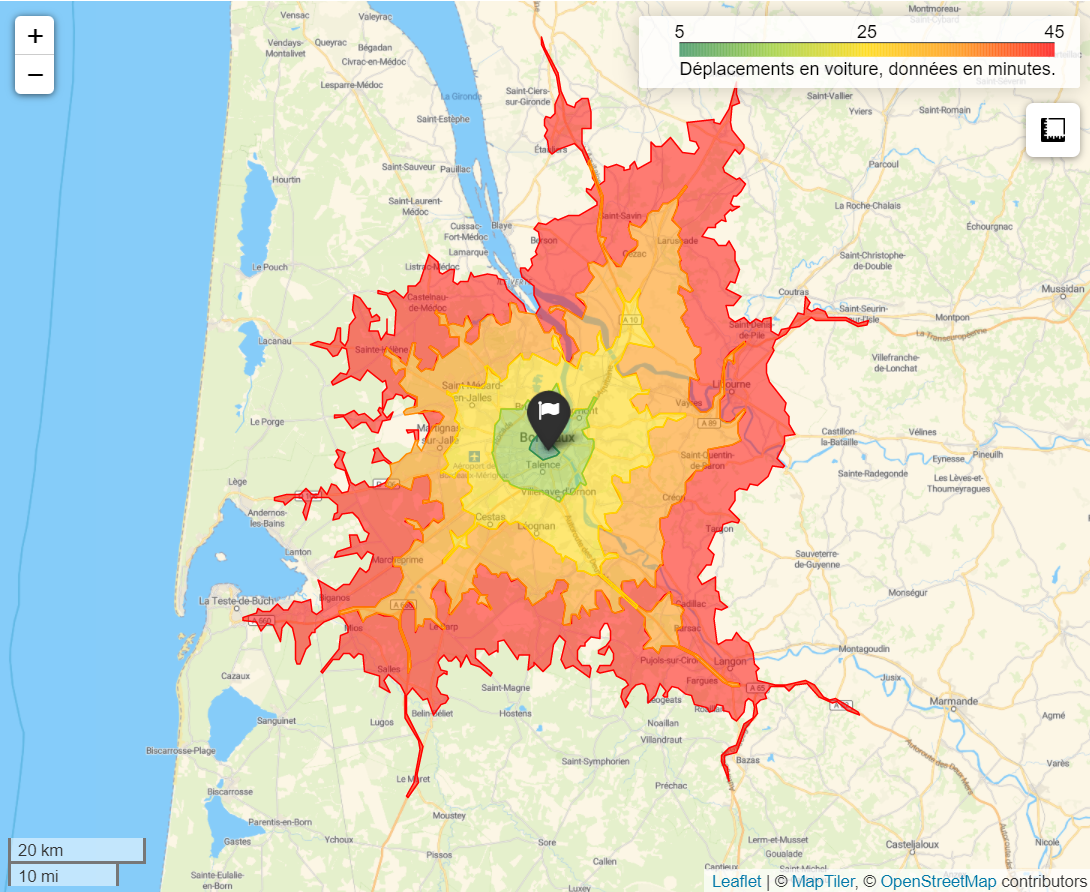
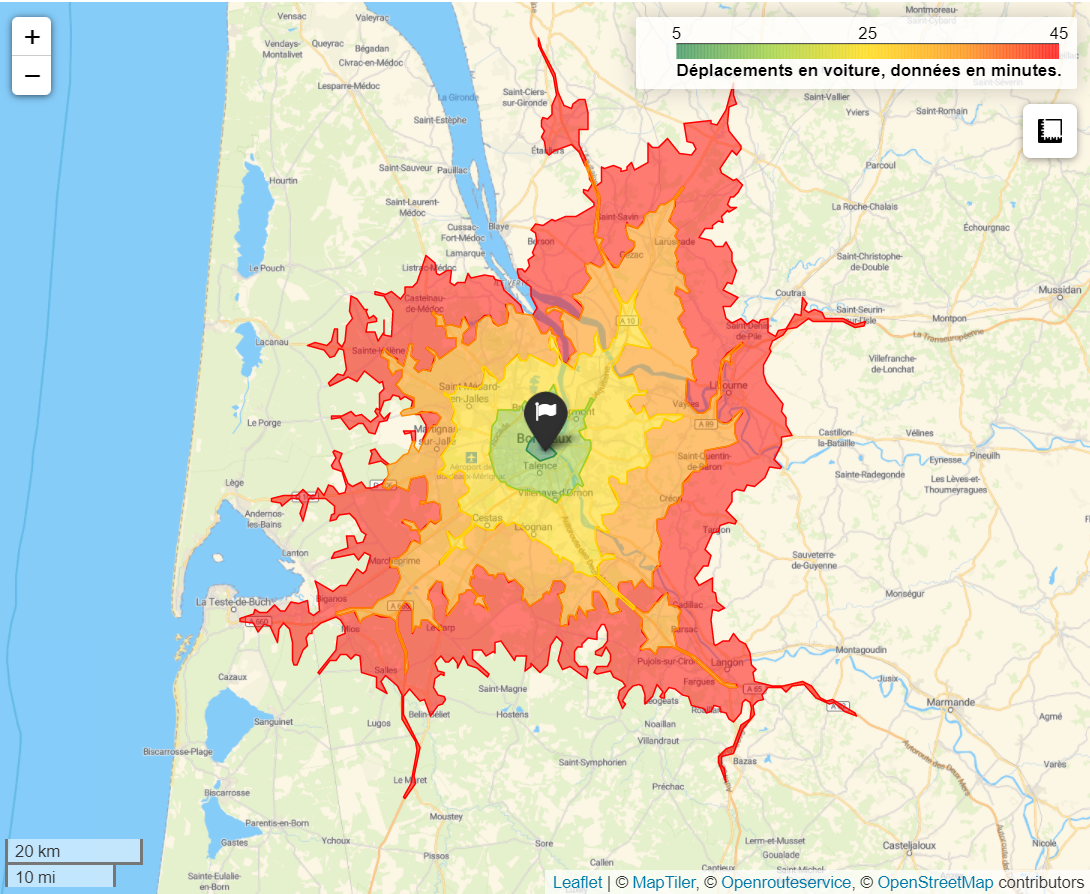
pyqgis

diff --git a/iso.html b/iso.html
@@ -10,11 +10,14 @@
     <style>html, body {width: 100%;height: 100%;margin: 0;padding: 0;}</style>
     <style>#map {position:absolute;top:0;bottom:0;right:0;left:0;}
     .legend{    padding: 2px 2px;
-    font: 12px/16px Arial, Helvetica, sans-serif;
+    font: 11.5px/16px Arial, Helvetica, sans-serif;
     background: white;
     background: rgba(255,255,255,0.8);
     box-shadow: 0 0 15px rgb(0 0 0 / 20%);
-    border-radius: 2px;width:42vh}</style>
+    border-radius: 2px;width:42vh}
+    .caption{
+        font-weight: bold;
+    }</style>
     <script src="https://cdn.jsdelivr.net/npm/leaflet@1.6.0/dist/leaflet.js"></script>
     <script src="https://code.jquery.com/jquery-1.12.4.min.js"></script>
     <script src="https://maxcdn.bootstrapcdn.com/bootstrap/3.2.0/js/bootstrap.min.js"></script>
@@ -320,7 +323,7 @@
 
     color_map_395ac610755a4a4ab578d707ce83edb1.x = d3.scale.linear()
               .domain([5.0, 45.0])
-              .range([0, 250]);
+              .range([0, 255]);
 
 
     color_map_395ac610755a4a4ab578d707ce83edb1.legend = L.control({position: 'topright'});

diff --git a/QGIS/index.html b/QGIS/index.html
@@ -266,9 +266,9 @@
                 opacity: .9,
                 color: '#05D100',
                 dashArray: '',
-                lineCap: 'square',
+                lineCap: 'round',
                 lineJoin: 'bevel',
-                weight: 1.0,
+                weight: .75,
                 fillOpacity: 0,
                 interactive: false,
             }
@@ -313,7 +313,7 @@
                 opacity: .9,
                 color: '#FFD435',
                 dashArray: '',
-                lineCap: 'square',
+                lineCap: 'round',
                 lineJoin: 'bevel',
                 weight: 2.0,
                 fillOpacity: 0,
@@ -363,7 +363,7 @@
                 opacity: .9,
                 color: '#FF4040',
                 dashArray: '',
-                lineCap: 'square',
+                lineCap: 'round',
                 lineJoin: 'bevel',
                 weight: 3.0,
                 fillOpacity: 0,

diff --git a/scripts.html b/scripts.html
@@ -105,13 +105,7 @@
 	
 </style>
 			<!-- Begin Featured Image --><h5></h3>
-				<iframe src="QGIS/index.html"scrolling="no"frameBorder="0" height="700vh" title="" style="position: relative;
-				left: 50%;
-				right: 50%;
-				margin-left: -50vw;
-				margin-right: -50vw;
-				max-width: 100vw;
-				width: 100vw;margin-bottom: 2%;"></iframe>
+				<iframe src="QGIS/index.html"scrolling="no"frameBorder="0" width="100%" height="600vh" title=""style="margin-bottom: 2%;"></iframe>
 <pre class="line-numbers"><code class="python">uri = r"C:\Users\Florian\Pictures\TERRITOIRE\fin.shp|layername=fin"
 layer = QgsVectorLayer(uri,"points","ogr")
 point = QgsVectorLayer(r"C:\Users\Florian\Pictures\TERRITOIRE\PONTAVQ.shp|layername=PONTAVQ","","ogr")

diff --git a/QGIS/css/leaflet.css b/QGIS/css/leaflet.css
@@ -347,6 +347,7 @@ svg.leaflet-image-layer.leaflet-interactive path {
 	box-shadow: 0 1px 5px rgba(0,0,0,0.4);
 	background: #fff;
 	border-radius: 2px;
+	
 	}
 .leaflet-control-layers-toggle {
 	background-image: url(images/layers.png);
@@ -373,6 +374,9 @@ svg.leaflet-image-layer.leaflet-interactive path {
 	padding: 6px 10px 6px 6px;
 	color: #333;
 	background: #fff;
+	background-color : rgba(250,250,250,0.8);
+	border-radius: 2px;
+	font-size: 13px;
 	}
 .leaflet-control-layers-scrollbar {
 	overflow-y: scroll;
@@ -477,6 +481,7 @@ svg.leaflet-image-layer.leaflet-interactive path {
 .leaflet-popup-content {
 	margin: 13px 19px;
 	line-height: 1.4;
+	font-size:12.5px
 	}
 .leaflet-popup-content p {
 	margin: 18px 0;
